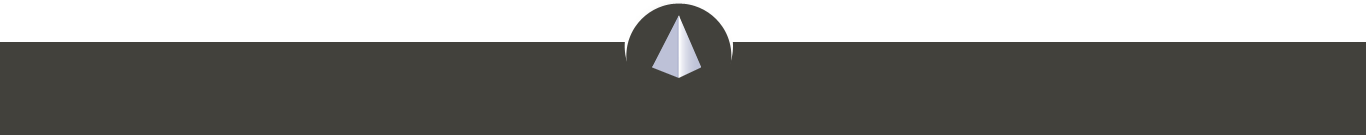
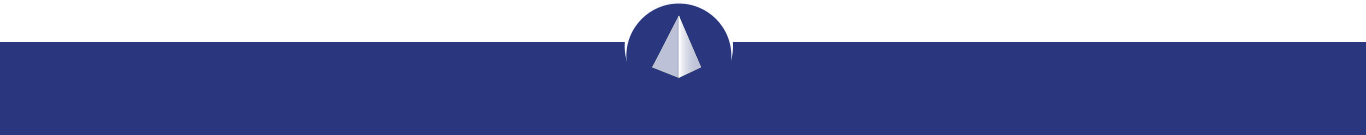
colors

diff --git a/css/style.css b/css/style.css
@@ -1465,7 +1465,7 @@ div.page2-pane-wrap div.points { float: right; }
 
 
 .navigation-popup{position:absolute;top:0px;left:0px;background:rgba(0,0,0,0.7);z-index:9999;height:100vh;width:100%;display:none;overflow-x:hidden}
-.navigation-popup .navigation-content{width:25%;max-width:255px;background:rgba(249,233,13,0.85);float:right;position:absolute;height:100vh;min-width:255px;right:0px;top:0px;}
+.navigation-popup .navigation-content{width:25%;max-width:255px;background:#25327a;float:right;position:absolute;height:100vh;min-width:255px;right:0px;top:0px;}
 .navigation-popup .navigation-content .btn_nav_close{margin:16px 0 0 -28px;float:left;float:left;clear:both;  -webkit-animation-duration:0.3s!important;
   animation-duration: 0.3s!important;
   -webkit-animation-fill-mode: both;
@@ -1473,11 +1473,11 @@ div.page2-pane-wrap div.points { float: right; }
 .navigation-popup .navigation-content .btn_nav_close img{width:56px}
 .navigation-popup .navigation-content ul{float:left;clear:both;display:block;list-style:none;margin:4px 0 0 0;padding:0px;width:100%;}
 .navigation-popup .navigation-content ul li{float:left;clear:both;margin:0px;padding:0px;width:100%;}
-.navigation-popup .navigation-content ul li a{float:left;height:23px;clear:both;margin:0px;padding:0px;width:100%;color:#42413c;font-size:16px;font-family:"ralewayregular";text-transform:uppercase;line-height:25px;padding-left:34px;}
-.navigation-popup .navigation-content ul li a:hover{background:#42413c;color:#f9e90d;font-family:"ralewayblack"}
-.navigation-popup .navigation-content ul li a.active{background:#42413c;color:#f9e90d;font-family:"ralewayblack"}
-.navigation-popup .navigation-content .line{float:left;border-bottom:1px solid #c7b900;clear:both;margin:20px 0 24px 34px;width:95px;}
-.navigation-popup .navigation-content .sub-title{color:#42413c;text-transform:uppercase;font-size:16px;font-family:"ralewayblack";float:left;margin:0 0 20px 34px;line-height:30px;clear:both;}
+.navigation-popup .navigation-content ul li a{float:left;height:23px;clear:both;margin:0px;padding:0px;width:100%;color:#bdc1d7;font-size:16px;font-family:"ralewayregular";text-transform:uppercase;line-height:25px;padding-left:34px;}
+.navigation-popup .navigation-content ul li a:hover{background:#afb3ce;color:#25327a;font-family:"ralewayblack"}
+.navigation-popup .navigation-content ul li a.active{background:#afb3ce;color:#25327a;font-family:"ralewayblack"}
+.navigation-popup .navigation-content .line{float:left;border-bottom:1px solid #25327a;clear:both;margin:20px 0 24px 34px;width:95px;}
+.navigation-popup .navigation-content .sub-title{color:#afb3ce;text-transform:uppercase;font-size:16px;font-family:"ralewayblack";float:left;margin:0 0 20px 34px;line-height:30px;clear:both;}
 .navigation-popup .navigation-content .demo-icon{float:left;margin:0 0 0 34px;clear:both;width:138px;height:105px;background: url("../img/btn_request_demo.png") 0 0 no-repeat;}
 .navigation-popup .navigation-content .demo-icon:hover{background-position: 0 -106px;}
 .navigation-popup .get-started-popup{width:38%;background:rgba(255,255,255,0.85);float:right;position:absolute;height:100vh;min-width:527px;right:0px;top:0px;display: none}
